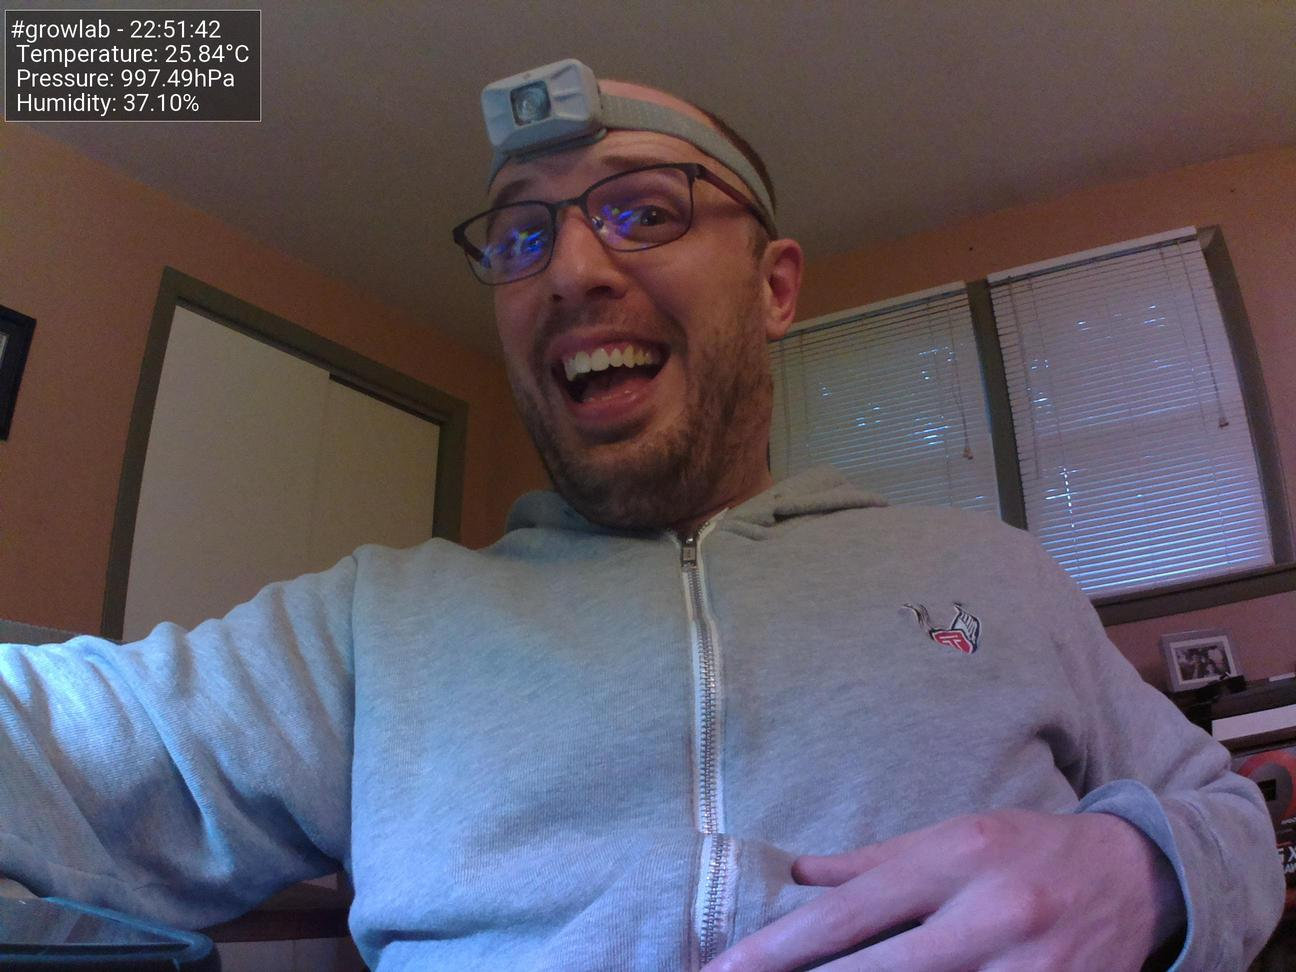
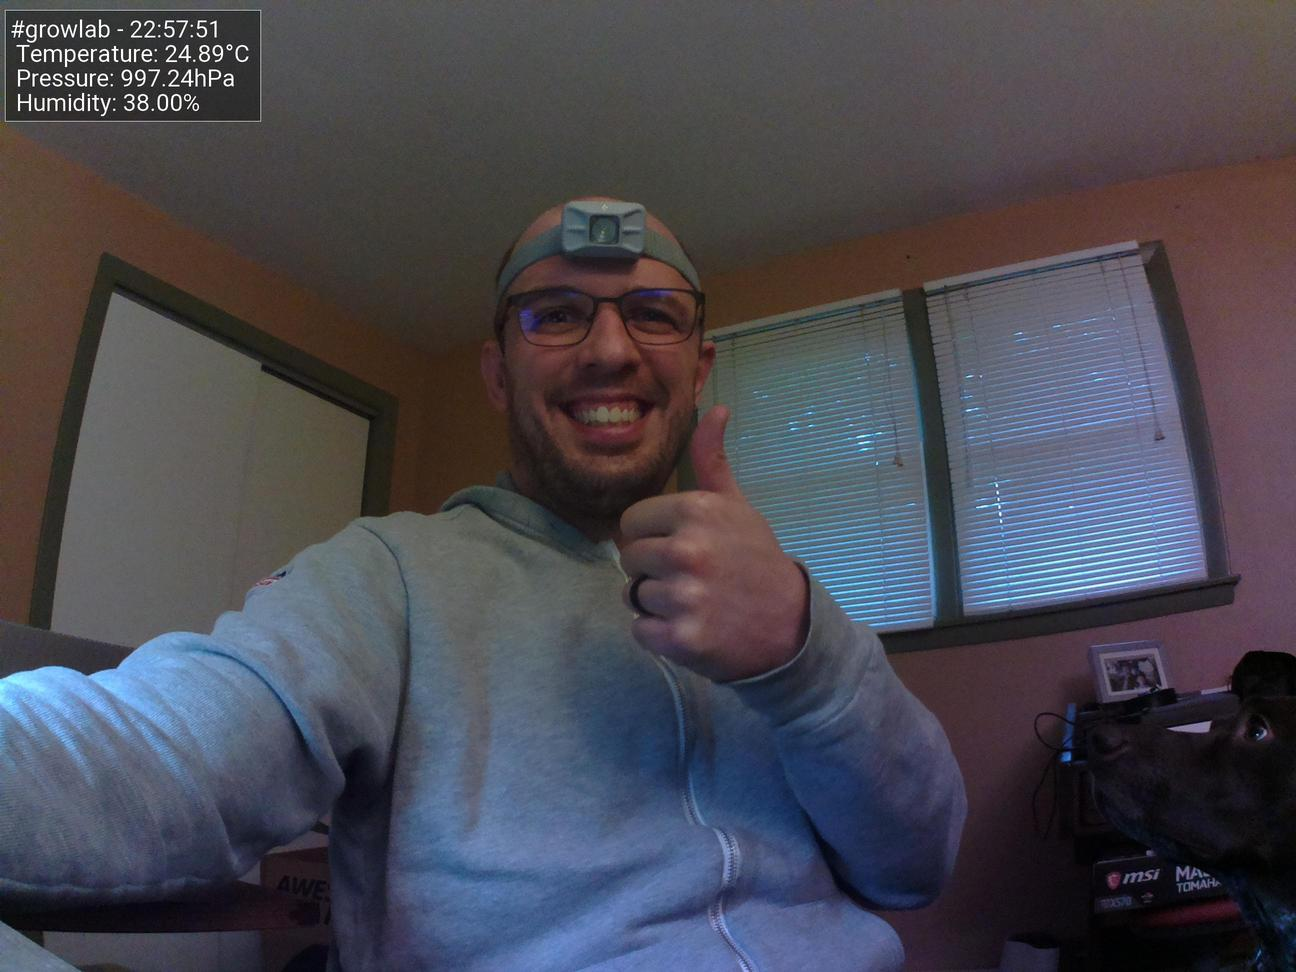
Update images at Fri 28 May 22:57:59 BST 2021

diff --git a/app/growlab-live/docs/index.html b/app/growlab-live/docs/index.html
@@ -47,19 +47,19 @@
                         <tbody>
                             <tr>
                                 <td>Time</td>
-                                <td>22:51:42</td>
+                                <td>22:57:51</td>
                             </tr>
                             <tr>
                                 <td>Temperature</td>
-                                <td>25.84°C</td>
+                                <td>24.89°C</td>
                             </tr>
                             <tr>
                                 <td>Humidity</td>
-                                <td>37.10%</td>
+                                <td>38.00%</td>
                             </tr>
                             <tr>
                                 <td>Pressure</td>
-                                <td>997.49hPa</td>
+                                <td>997.24hPa</td>
                             </tr>
                         </tbody>
                     </table>
@@ -67,7 +67,7 @@
 
                 <h5>Latest image</h5>
                 <div style="width: 85%;">
-                            <img class="figure-img img-fluid rounded" src="./preview.jpg?uid=1622238711.0178382">
+                            <img class="figure-img img-fluid rounded" src="./preview.jpg?uid=1622239079.4983141">
                 </div>
             </div>
         </div>
